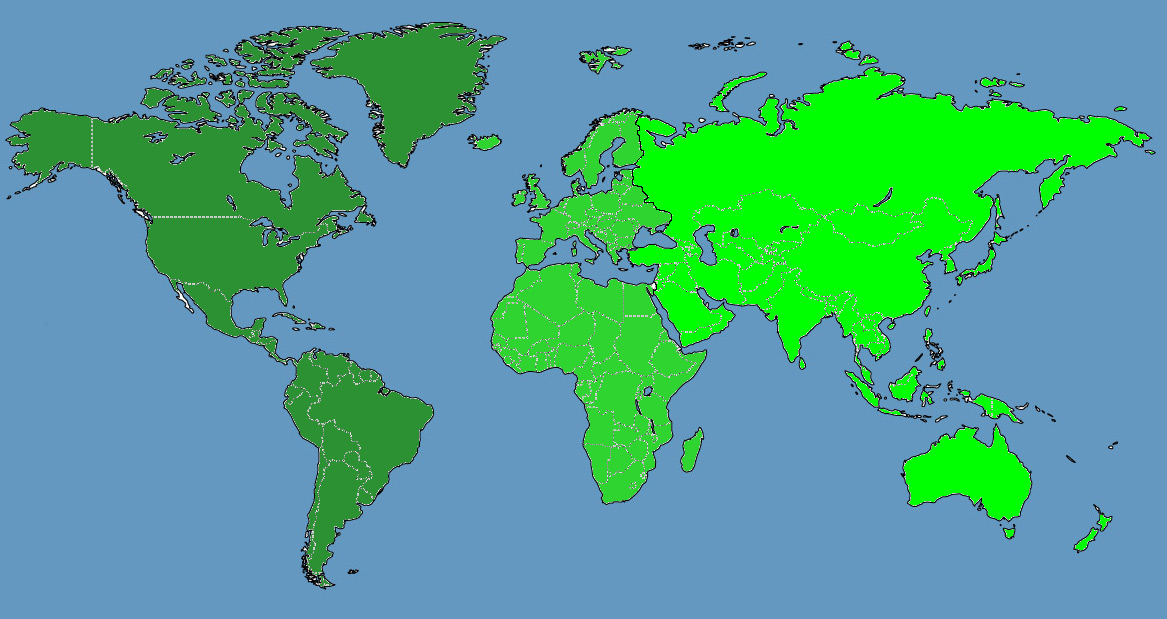
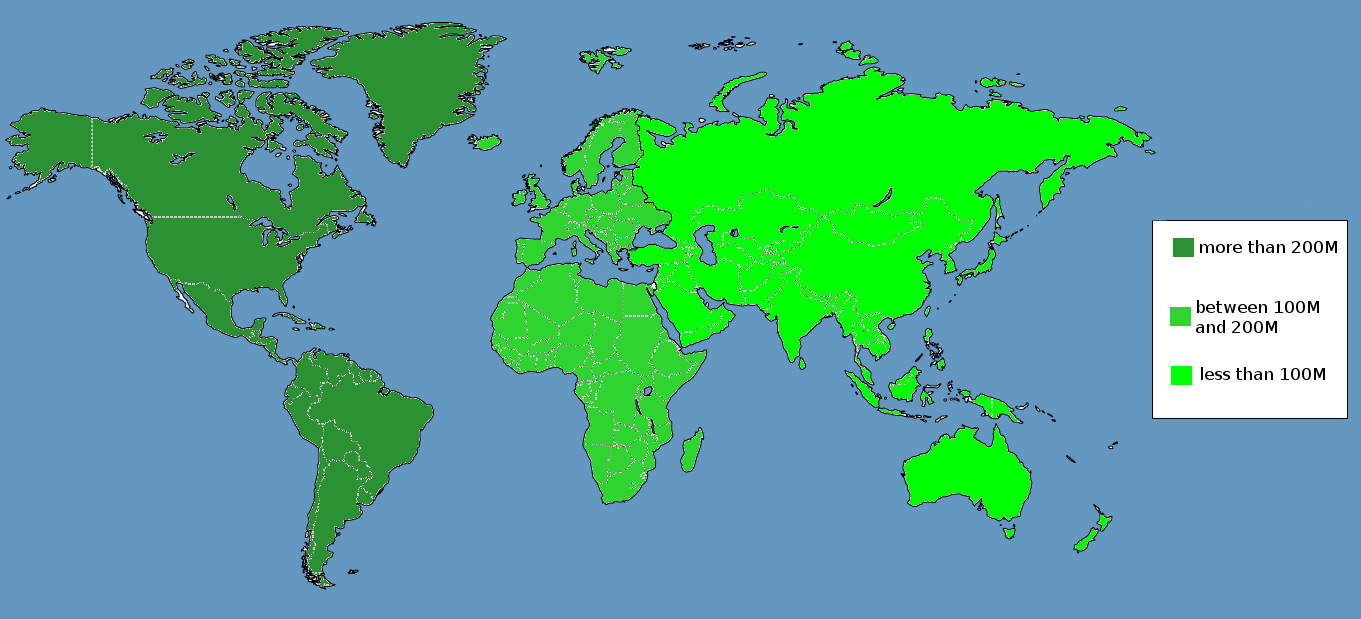
aggiunta analisi geotopografica

diff --git a/Documenti/LaTeX/piano di progetto/piano_di_progetto.tex b/Documenti/LaTeX/piano di progetto/piano_di_progetto.tex
@@ -710,7 +710,7 @@ Alcune aziende, come la \swname{FileNet}, che prima detenevano una rilevante por
 
 \begin{figure}[H]
   \centering
-  \includegraphics[width=.7\textwidth]{mercato_2012}
+  \includegraphics[width=.85\textwidth]{mercato_2012}
   \caption{Situazione del mercato fornitori nel 2012.}
   \label{fig:mercato2012}
 \end{figure}
@@ -721,9 +721,39 @@ Il grafico riportato in \figurename~\ref{fig:trend} rappresenta l'andamento mond
 
 \begin{figure}[H]
   \centering
-  \includegraphics[width=.7\textwidth]{markettrend}
+  \includegraphics[width=.85\textwidth]{markettrend}
   \caption{Situazione del mercato fornitori nel 2012.}
   \label{fig:trend}
+\end{figure}
+
+\subsection{Analisi geotopografica del mercato}% analisi fuffosa
+Adottando un approccio territoriale alla segmentazione del mercato, la situazione che emerge rivela una diversificazione del comportamento della domanda fra l'area geografica delle Americhe, l'Europa considerata congiuntamente al Medio Oriente e all'Africa (EMEA) e l'Asia \cite{bea:bpm}. In particolare, considerando il volume degli investimenti, questo risulta decisamente più elevato nella regione americana, dove un investimento dell'entità di 289 milioni di dollari annui denota il carattere prioritario riconosciuto alle soluzioni BPM\@.
+
+La regione europea si colloca al secondo posto con un valore di 137 milioni di dollari, seguita dall'Asia con una spesa pari a 70 milioni di dollari, come illustrato dalla \figurename~\ref{fig:map1}.
+
+\begin{figure}[H]
+  \centering
+  \includegraphics[width=.85\textwidth]{worldmap}
+  \caption{Entità degli investimenti in soluzioni BPM nelle diverse aree.}
+  \label{fig:map1}
+\end{figure}
+
+La situazione delle quote di mercato relativa ai fornitori mostra un sostanziale allineamento con i dati esposti in precedenza, dal momento che la quota maggiore risulta essere detenuta ancora una volta dalle Americhe (58,3\%), mentre Europa e Africa si arrestano ad un livello del 27,6\% e nella regione asiatica il dato rilevato corrisponde al 14,1\%. Tale dato può essere giustificato dal fatto che il mercato attira la specializzazione dei fornitori in questo settore dato il crescente investimento nelle stesse zone.
+
+\begin{figure}[H]
+  \centering
+  \includegraphics[width=.85\textwidth]{worldmap2}
+  \caption{Ripartizione delle quote di mercato nelle vendite di sistemi BPM.}
+  \label{fig:map3}
+\end{figure}
+
+Un dato più interessante emerge tuttavia incrociando l'analisi sul piano geografico con la prospettiva temporale, considerando la distribuzione sul territorio del tasso di crescita annuale degli investimenti in soluzioni BPM\@. In questo caso, infatti, la regione che comprende Europa, Medio Oriente e Africa mostra un incremento più marcato pari al 45,4\% al di sopra delle Americhe che invece si collocano al 44,8\%. Tale situazione è dovuta al fatto che il settore ha raggiunto un buon livello di maturità nelle Americhe mentre in Europa si tratta di un mercato ancora giovane. Per quanto riguarda, invece, l'estremo oriente, l'Asia e l'Oceania il tasso di crescita denota un incremento annuale nel quinquennio 2006-2011 del solo 37\%.
+
+\begin{figure}[H]
+  \centering
+  \includegraphics[width=.85\textwidth]{worldmap3}
+  \caption{Tasso di crescita annuo nel quinquennio 2006-2011 nel settore BPM.}
+  \label{fig:map2}
 \end{figure}
 
 \section{Software selezionati}
@@ -846,7 +876,8 @@ disponibile in italiano & & & \cross & \tick \\
 \clearpage
 
 \begin{thebibliography}{90}
-  \bibitem[Mazzolari, 2007]{mazzolari:bpmita} Mazzolari, F. e Testolin, G., \emph{Document Management}, SistemiNEWS, 2007, \url{http://www.arxivar.it/download/doc_download/99-e-document-management} [data di consultazione 11 luglio 2013]
+  \bibitem[Mazzolari, 2007]{mazzolari:bpmita} Mazzolari, F. e Testolin, G., \emph{Document Management}, SistemiNEWS, 2007,\newline disponibile all'indirizzo: \url{http://www.arxivar.it/download/doc_download/99-e-document-management} (consultato il 11/07/2013)
+  \bibitem[Bea, 2008]{bea:bpm} BEA Systems, \inglese{The State of the BPM Market}, 2008, \newline disponibile all'indirizzo \url{http://www.inst-informatica.pt/servicos/informacao-e-documentacao/dossiers-tematicos/dossier-tematico-no-6-bpm-business-process/the-state-of-the-bpm-market-businessand-it-solving} (consultato il 12/07/2013)
 \end{thebibliography}
 
 \end{document}
